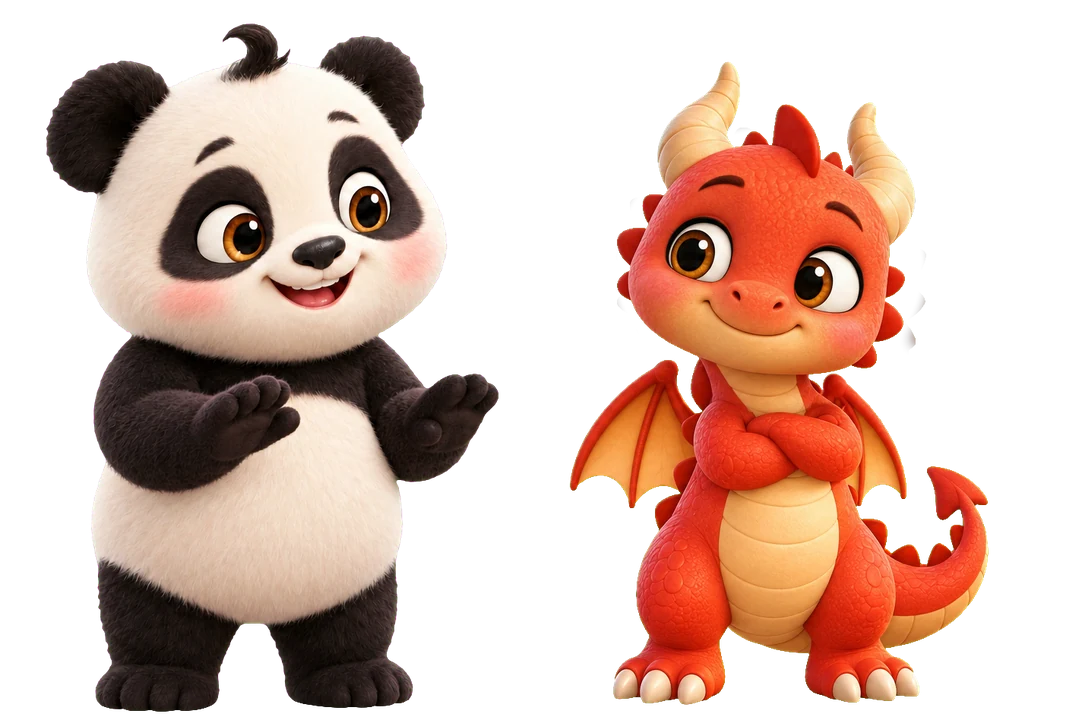
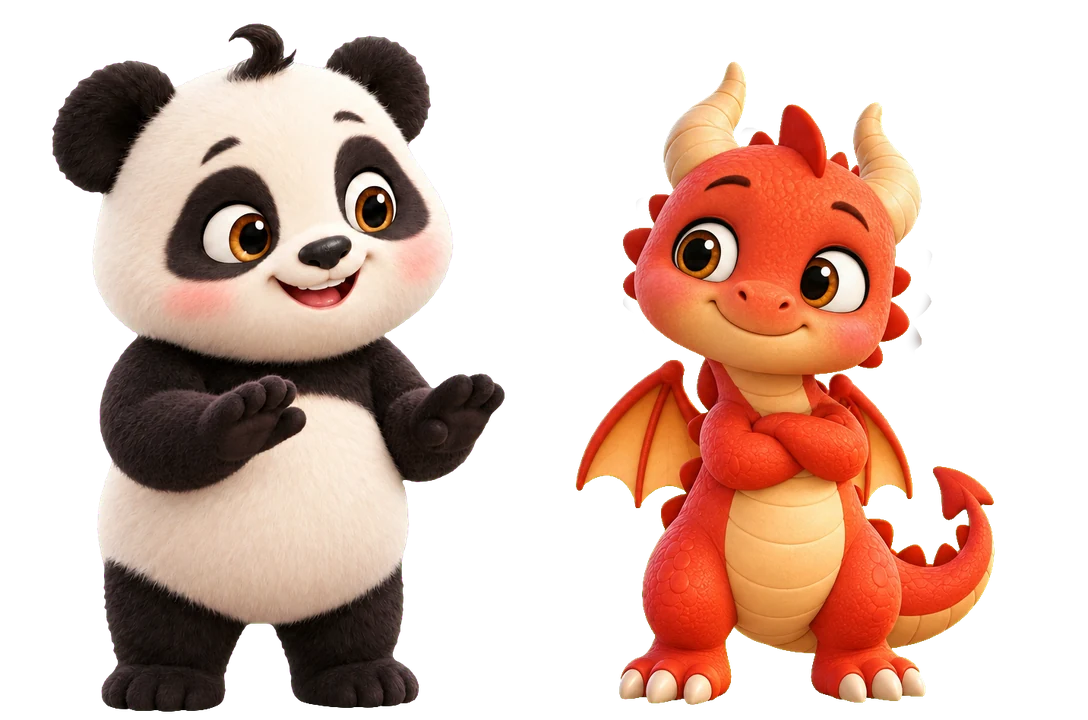
Labo : le souffle du dragon s'anime en petits GIF
Le dragon fâché souffle sa fumée et fouette de la queue, le feu ondule sur trois flammes,
et à la fin Pandi fait vraiment coucou : des images où seule la partie qui bouge est
redessinée, jouées en boucle (scene.json : gif). Version 1.37.0-labo.13.

diff --git a/js/components/CalmScene.js b/js/components/CalmScene.js
@@ -57,22 +57,34 @@ export function CalmScene({ hero, ctx = {}, label = 'Pandi et son ami font l’e
   if (!c) return html`<div class="cs" role="img" aria-label=${label}></div>`;
   const v = dragonView(ctx, fired);
   const rest = v.state === 'fache';
-  const img = (name, cls = '') => html`<img class=${`cs-l cs-${name} ${cls}`} src=${`${BASE}${hero}/${name}.webp`} alt="" draggable="false" />`;
+  const src = (name) => `${BASE}${hero}/${name}.webp`;
+  const img = (name, cls = '') => html`<img class=${`cs-l cs-${name} ${cls}`} src=${src(name)} alt="" draggable="false" />`;
+  // un calque, ou son petit GIF s'il en a un (scene.json, gif) : ses images jouées en boucle, chacune à son tour
+  const anim = (name, cls = '') => {
+    const frames = c.gif?.[name];
+    if (!frames) return img(name, cls);
+    const d = frames[0][1];
+    const n = frames.length;
+    return html`<div class=${`cs-gif cs-${name} ${cls}`}>
+      ${frames.map(([f], i) => html`<img key=${i} class="cs-l" src=${src(f)} alt="" draggable="false"
+        style=${{ animation: `cs-gif${n} ${n * d}ms steps(1, end) ${-((n - i) % n) * d}ms infinite` }} />`)}
+    </div>`;
+  };
   // un seul état à l'écran : le nouveau apparaît en fondu par-dessus, l'ancien ne s'en va qu'une fois couvert
-  const state = (name) => img(name, `cs-etat ${v.state === name ? 'on' : ''}`);
+  const state = (name) => anim(name, `cs-etat ${v.state === name ? 'on' : ''}`);
   const [fx, fy] = c.feu;
   return html`<div class=${`cs cs-${hero} cs-${ctx.phase || 'ready'}`} role="img" aria-label=${label}>
     <div class="cs-cadre" style=${{ aspectRatio: `${c.frame[0]} / ${c.frame[1]}`, '--secs': `${ctx.secs || 3}s` }}>
       <div class="cs-souffle">
         <div class=${`cs-repos ${rest ? 'on' : ''} ${v.apaise ? 'apaise' : ''}`}>
-          ${img('fache')}
-          ${img('apaise', v.apaise ? 'on' : '')}
+          ${anim('fache')}
+          ${anim('apaise', v.apaise ? 'on' : '')}
           ${img('yeux', rest ? 'cs-cligne' : '')}
         </div>
         ${state('inspire')}
         ${state('souffle')}
         <div class=${`cs-feu-tout ${v.state === 'souffle' ? 'on' : ''}`} style=${{ transformOrigin: `${fx}% ${fy}%`, '--f': v.feuTaille.toFixed(2) }}>
-          <div class="cs-feu-vif" style=${{ transformOrigin: `${fx}% ${fy}%` }}>${img('feu')}</div>
+          <div class="cs-feu-vif" style=${{ transformOrigin: `${fx}% ${fy}%` }}>${anim('feu')}</div>
         </div>
         ${state('calme')}
       </div>

diff --git a/css/calm.css b/css/calm.css
@@ -211,7 +211,14 @@
 .cs-l { position: absolute; inset: 0; width: 100%; height: 100%; display: block; -webkit-user-drag: none; user-select: none; }
 /* un seul état à l'écran (la scène de base, ou ils inspirent, ou il souffle, ou c'est fini) : le nouveau apparaît en
    fondu par-dessus, l'ancien reste en dessous le temps du fondu, puis disparaît (jamais de fond qui transparaît) */
-.cs-repos { position: absolute; inset: 0; }
+.cs-repos, .cs-gif, .cs-etat { position: absolute; inset: 0; }
+/* les petits GIF : chaque image de la boucle est visible à son tour (une sur n), en marches nettes */
+@keyframes cs-gif2 { 0% { opacity: 1; } 50%, 100% { opacity: 0; } }
+@keyframes cs-gif3 { 0% { opacity: 1; } 33.334%, 100% { opacity: 0; } }
+@keyframes cs-gif4 { 0% { opacity: 1; } 25%, 100% { opacity: 0; } }
+.cs-gif .cs-l { opacity: 0; }
+/* hors de l'écran, les GIF s'arrêtent */
+.cs-etat:not(.on) .cs-gif .cs-l, .cs-etat:not(.on).cs-gif .cs-l, .cs-repos:not(.on) .cs-gif .cs-l, .cs-feu-tout:not(.on) .cs-gif .cs-l { animation-play-state: paused !important; }
 .cs-repos, .cs-etat { opacity: 0; z-index: 1; transition: opacity 0s linear .6s; }
 .cs-repos.on, .cs-etat.on { opacity: 1; z-index: 2; transition: opacity .55s ease; }
 /* sur la scène de base, le visage apaisé remplace peu à peu le visage fâché */

diff --git a/js/config.js b/js/config.js
@@ -6,7 +6,7 @@
 export const SUPABASE_URL = 'https://kyhhkhmwdostzdaksxzw.supabase.co';
 export const SUPABASE_ANON_KEY = 'sb_publishable__E61F1zKiN431iU2AlKySQ_PZOsOtgi';
 
-export const APP_VERSION = '1.37.0-labo.12';
+export const APP_VERSION = '1.37.0-labo.13';
 
 // Adresse de contact des familles (page de confidentialité, demandes de suppression des données)
 export const CONTACT_EMAIL = 'contact@pandiflow.com';
